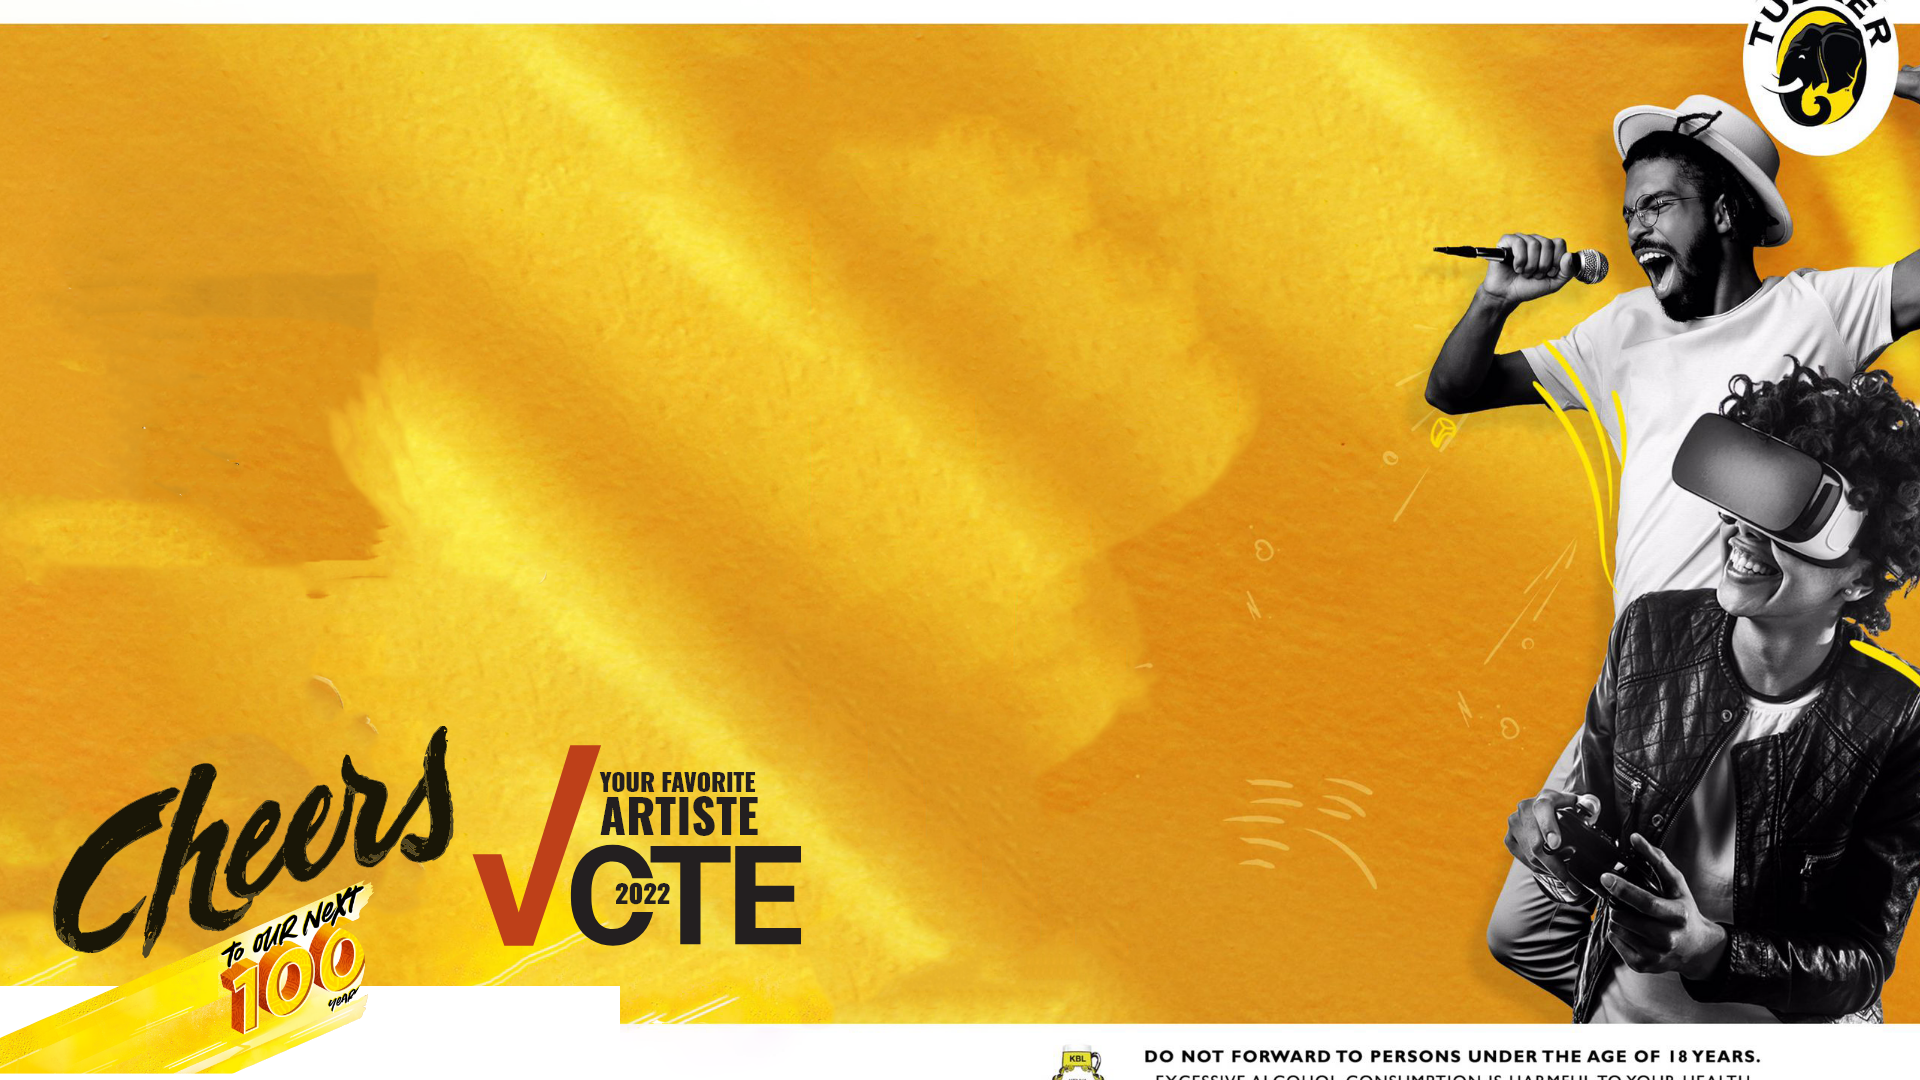
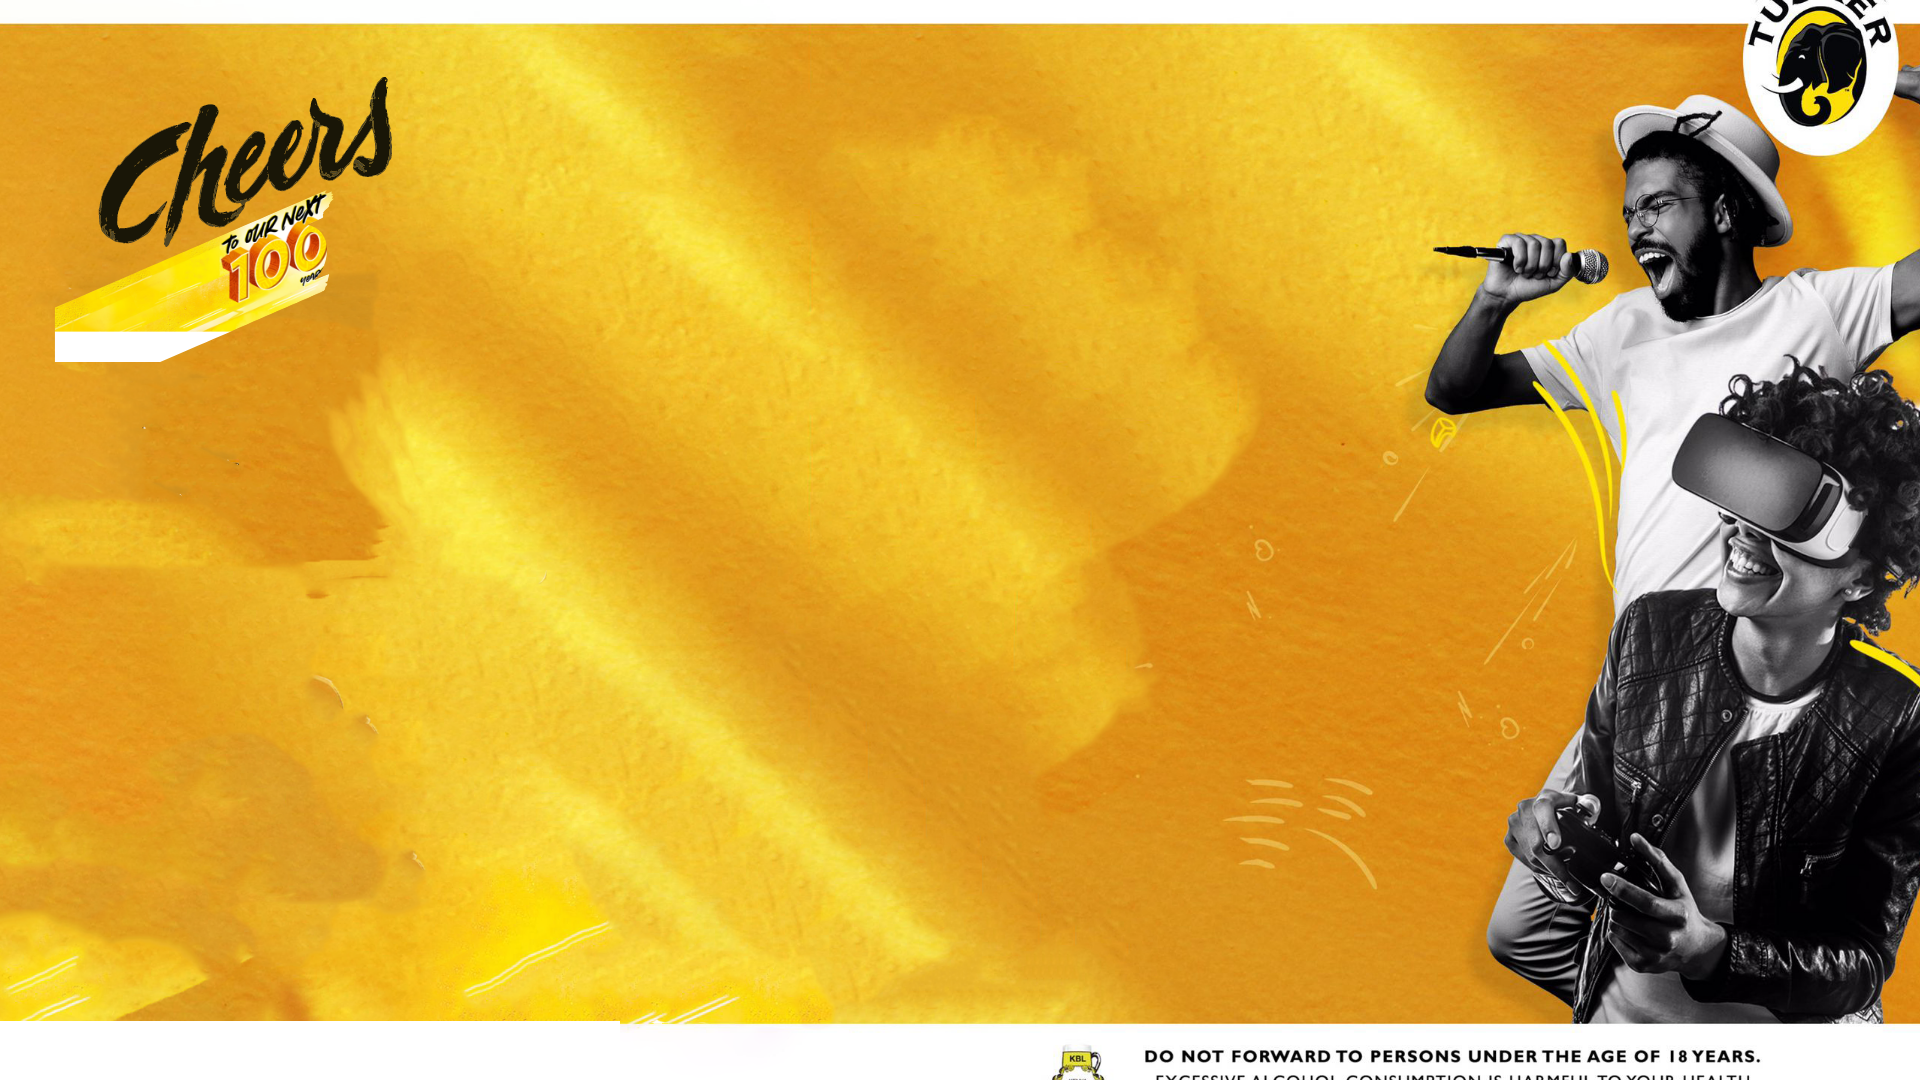
UI look and feel tweaks

Changed region(s): [[0.0, 0.6722, 0.4375, 1.0], [0.0312, 0.0611, 0.2188, 0.3361]]

diff --git a/resources/views/auth/passwords/reset.blade.php b/resources/views/auth/passwords/reset.blade.php
@@ -1,68 +1,3 @@
-{{-- @extends('layouts.app')
-
-@section('content')
-<div class="container">
-    <div class="row justify-content-center">
-        <div class="col-md-8">
-            <div class="card">
-                <div class="card-header">{{ __('Reset Password') }}</div>
-
-                <div class="card-body">
-                    <form method="POST" action="{{ route('password.update') }}">
-                        @csrf
-
-                        <input type="hidden" name="token" value="{{ $token }}">
-
-                        <div class="row mb-3">
-                            <label for="email" class="col-md-4 col-form-label text-md-end">{{ __('Email Address') }}</label>
-
-                            <div class="col-md-6">
-                                <input id="email" type="email" class="form-control @error('email') is-invalid @enderror" name="email" value="{{ $email ?? old('email') }}" required autocomplete="email" autofocus>
-
-                                @error('email')
-                                    <span class="invalid-feedback" role="alert">
-                                        <strong>{{ $message }}</strong>
-                                    </span>
-                                @enderror
-                            </div>
-                        </div>
-
-                        <div class="row mb-3">
-                            <label for="password" class="col-md-4 col-form-label text-md-end">{{ __('Password') }}</label>
-
-                            <div class="col-md-6">
-                                <input id="password" type="password" class="form-control @error('password') is-invalid @enderror" name="password" required autocomplete="new-password">
-
-                                @error('password')
-                                    <span class="invalid-feedback" role="alert">
-                                        <strong>{{ $message }}</strong>
-                                    </span>
-                                @enderror
-                            </div>
-                        </div>
-
-                        <div class="row mb-3">
-                            <label for="password-confirm" class="col-md-4 col-form-label text-md-end">{{ __('Confirm Password') }}</label>
-
-                            <div class="col-md-6">
-                                <input id="password-confirm" type="password" class="form-control" name="password_confirmation" required autocomplete="new-password">
-                            </div>
-                        </div>
-
-                        <div class="row mb-0">
-                            <div class="col-md-6 offset-md-4">
-                                <button type="submit" class="btn btn-primary">
-                                    {{ __('Reset Password') }}
-                                </button>
-                            </div>
-                        </div>
-                    </form>
-                </div>
-            </div>
-        </div>
-    </div>
-</div>
-@endsection --}}
 <!DOCTYPE html>
 <html lang="en">
 
@@ -81,22 +16,44 @@
         input::placeholder {
             color: rgb(252, 244, 244);
         }
+        /* Media Screen Desktop/Laptop */
+        @media only screen and (min-device-width: 1200px) and (max-device-width: 3000px) and (-webkit-min-device-pixel-ratio: 1) {
+            .responsive_style {
+                background: url("{{ asset('frontend/images/laptop.png') }}") no-repeat center fixed;
+                -webkit-background-size: cover;
+                -moz-background-size: cover;
+                -o-background-size: cover;
+                background-size: cover;
+            }
+        }
+/* Media Screen Tablet */
+        @media only screen and (min-device-width: 500px) and (max-device-width: 1199px) and (-webkit-min-device-pixel-ratio: 1) {
+            .responsive_style {
+                background: url("{{ asset('frontend/images/tablet.png') }}") no-repeat center fixed;
+                -webkit-background-size: cover;
+                -moz-background-size: cover;
+                -o-background-size: cover;
+                background-size: cover;
+            }
+        }
+/* Media Screen Phone */
+        @media only screen and (min-device-width: 200px) and (max-device-width: 499px) and (-webkit-min-device-pixel-ratio: 1) {
+            .responsive_style {
+                background: url("{{ asset('frontend/images/phone.png') }}") no-repeat center fixed;
+                -webkit-background-size: cover;
+                -moz-background-size: cover;
+                -o-background-size: cover;
+                background-size: cover;
+            }
+        }
     </style>
 </head>
 
 <body>
-    <div class="container-scroller" style="background: url({{ asset('frontend/images/landing_page.png') }}) no-repeat center center fixed;
-    -webkit-background-size: cover;
-    -moz-background-size: cover;
-    -o-background-size: cover;
-    background-size: cover;">
+    <div class="container-scroller responsive_style">
         <div class="container-fluid page-body-wrapper full-page-wrapper">
             <div class="row w-100">
-                <div class="content-wrapper d-flex align-items-center" style="background: url({{ asset('frontend/images/landing_page.png') }}) no-repeat center center fixed;
-                -webkit-background-size: cover;
-                -moz-background-size: cover;
-                -o-background-size: cover;
-                background-size: cover;">
+                <div class="content-wrapper d-flex align-items-center responsive_style">
 
                     <div class="col-sm-12 col-lg-6 mx-auto">
                         @if(session('message'))

diff --git a/resources/views/auth/passwords/email.blade.php b/resources/views/auth/passwords/email.blade.php
@@ -1,50 +1,3 @@
-{{-- @extends('layouts.app')
-
-@section('content')
-<div class="container">
-    <div class="row justify-content-center">
-        <div class="col-md-8">
-            <div class="card">
-                <div class="card-header">{{ __('Reset Password') }}</div>
-
-                <div class="card-body">
-                    @if (session('status'))
-                        <div class="alert alert-success" role="alert">
-                            {{ session('status') }}
-                        </div>
-                    @endif
-
-                    <form method="POST" action="{{ route('password.email') }}">
-                        @csrf
-
-                        <div class="row mb-3">
-                            <label for="email" class="col-md-4 col-form-label text-md-end">{{ __('Email Address') }}</label>
-
-                            <div class="col-md-6">
-                                <input id="email" type="email" class="form-control @error('email') is-invalid @enderror" name="email" value="{{ old('email') }}" required autocomplete="email" autofocus>
-
-                                @error('email')
-                                    <span class="invalid-feedback" role="alert">
-                                        <strong>{{ $message }}</strong>
-                                    </span>
-                                @enderror
-                            </div>
-                        </div>
-
-                        <div class="row mb-0">
-                            <div class="col-md-6 offset-md-4">
-                                <button type="submit" class="btn btn-primary">
-                                    {{ __('Send Password Reset Link') }}
-                                </button>
-                            </div>
-                        </div>
-                    </form>
-                </div>
-            </div>
-        </div>
-    </div>
-{{-- </div>
-@endsection --}}
 <!DOCTYPE html>
 <html lang="en">
 
@@ -63,22 +16,44 @@
         input::placeholder {
             color: rgb(252, 244, 244);
         }
+        /* Media Screen Desktop/Laptop */
+        @media only screen and (min-device-width: 1200px) and (max-device-width: 3000px) and (-webkit-min-device-pixel-ratio: 1) {
+            .responsive_style {
+                background: url("{{ asset('frontend/images/laptop.png') }}") no-repeat center fixed;
+                -webkit-background-size: cover;
+                -moz-background-size: cover;
+                -o-background-size: cover;
+                background-size: cover;
+            }
+        }
+/* Media Screen Tablet */
+        @media only screen and (min-device-width: 500px) and (max-device-width: 1199px) and (-webkit-min-device-pixel-ratio: 1) {
+            .responsive_style {
+                background: url("{{ asset('frontend/images/tablet.png') }}") no-repeat center fixed;
+                -webkit-background-size: cover;
+                -moz-background-size: cover;
+                -o-background-size: cover;
+                background-size: cover;
+            }
+        }
+/* Media Screen Phone */
+        @media only screen and (min-device-width: 200px) and (max-device-width: 499px) and (-webkit-min-device-pixel-ratio: 1) {
+            .responsive_style {
+                background: url("{{ asset('frontend/images/phone.png') }}") no-repeat center fixed;
+                -webkit-background-size: cover;
+                -moz-background-size: cover;
+                -o-background-size: cover;
+                background-size: cover;
+            }
+        }
     </style>
 </head>
 
 <body>
-    <div class="container-scroller" style="background: url({{ asset('frontend/images/landing_page.png') }}) no-repeat center center fixed;
-    -webkit-background-size: cover;
-    -moz-background-size: cover;
-    -o-background-size: cover;
-    background-size: cover;">
+    <div class="container-scroller responsive_style">
         <div class="container-fluid page-body-wrapper full-page-wrapper">
             <div class="row w-100">
-                <div class="content-wrapper d-flex align-items-center" style="background: url({{ asset('frontend/images/landing_page.png') }}) no-repeat center center fixed;
-                -webkit-background-size: cover;
-                -moz-background-size: cover;
-                -o-background-size: cover;
-                background-size: cover;">
+                <div class="content-wrapper d-flex align-items-center responsive_style">
 
                     <div class="col-sm-12 col-lg-6 mx-auto">
                         @if(session('message'))

diff --git a/resources/views/welcome.blade.php b/resources/views/welcome.blade.php
@@ -8,7 +8,7 @@
         /* Media Screen Desktop/Laptop */
         @media only screen and (min-device-width: 1200px) and (max-device-width: 3000px) and (-webkit-min-device-pixel-ratio: 1) {
             .responsive_style {
-                background: url("{{ asset('frontend/images/web-1920.png') }}") no-repeat center fixed;
+                background: url("{{ asset('frontend/images/laptop.png') }}") no-repeat center fixed;
                 -webkit-background-size: cover;
                 -moz-background-size: cover;
                 -o-background-size: cover;
@@ -19,7 +19,7 @@
         /* Media Screen Tablet */
         @media only screen and (min-device-width: 500px) and (max-device-width: 1199px) and (-webkit-min-device-pixel-ratio: 1) {
             .responsive_style {
-                background: url("{{ asset('frontend/images/ipad-view.png') }}") no-repeat center fixed;
+                background: url("{{ asset('frontend/images/tablet.png') }}") no-repeat center fixed;
                 -webkit-background-size: cover;
                 -moz-background-size: cover;
                 -o-background-size: cover;
@@ -30,7 +30,7 @@
         /* Media Screen Phone */
         @media only screen and (min-device-width: 200px) and (max-device-width: 499px) and (-webkit-min-device-pixel-ratio: 1) {
             .responsive_style {
-                background: url("{{ asset('frontend/images/mobile-view.png') }}") no-repeat center fixed;
+                background: url("{{ asset('frontend/images/phone.png') }}") no-repeat center fixed;
                 -webkit-background-size: cover;
                 -moz-background-size: cover;
                 -o-background-size: cover;
@@ -48,7 +48,7 @@
             <div class="row w-100 m-0">
                 <div class="content-wrapper d-flex align-items-center responsive_style">
                     <div class="col-sm-6 col-lg-4 mx-auto">
-                        @if (\Carbon\Carbon::now()->month == 02 || \Carbon\Carbon::now()->month == 03)
+                        {{-- @if (\Carbon\Carbon::now()->month == 02 || \Carbon\Carbon::now()->month == 03) --}}
                             <div class="row text-center" style="margin-bottom: 30%;">
                                 <h1 class="text-dark mb-5" style="font-size:50px;font-weight:800;">WELCOME TO THE TUSKER
                                     NEXTERS PLATFORM</h1>
@@ -62,8 +62,8 @@
                                     <h4>Register</h4>
                                 </a>
                             </div>
-                        @endif
-                        @if (\Carbon\Carbon::now()->month == 04 || \Carbon\Carbon::now()->month == 05)
+                        {{-- @endif --}}
+                        {{-- @if (\Carbon\Carbon::now()->month == 04 || \Carbon\Carbon::now()->month == 05)
                             <div class="row text-center" style="margin-bottom: 30%;">
                                 <h1 class="text-dark mb-5" style="font-size:50px;font-weight:800;">WELCOME TO THE TUSKER
                                     NEXTERS VOTING PLATFORM</h1>
@@ -76,7 +76,7 @@
                                     <h4>Vote Now</h4>
                                 </a>
                             </div>
-                        @endif
+                        @endif --}}
                         {{-- <div class="card-body px-5 py-5">
                         </div> --}}
                     </div>
@@ -171,9 +171,11 @@
                 alert('This website is not for Minors. You have to be 18 years and above to use this website!');
             }
         }
+        const cookie1 = getCookie(17);
+        console.log(cookie1);
         do {
             checkCookie();
-        } while (document.cookie);
+        } while (document.cookie == cookie1 );
     </script>
 </body>
 

diff --git a/resources/views/auth/passwords/confirm.blade.php b/resources/views/auth/passwords/confirm.blade.php
@@ -65,22 +65,44 @@
         input::placeholder {
             color: rgb(252, 244, 244);
         }
+        /* Media Screen Desktop/Laptop */
+        @media only screen and (min-device-width: 1200px) and (max-device-width: 3000px) and (-webkit-min-device-pixel-ratio: 1) {
+            .responsive_style {
+                background: url("{{ asset('frontend/images/laptop.png') }}") no-repeat center fixed;
+                -webkit-background-size: cover;
+                -moz-background-size: cover;
+                -o-background-size: cover;
+                background-size: cover;
+            }
+        }
+/* Media Screen Tablet */
+        @media only screen and (min-device-width: 500px) and (max-device-width: 1199px) and (-webkit-min-device-pixel-ratio: 1) {
+            .responsive_style {
+                background: url("{{ asset('frontend/images/tablet.png') }}") no-repeat center fixed;
+                -webkit-background-size: cover;
+                -moz-background-size: cover;
+                -o-background-size: cover;
+                background-size: cover;
+            }
+        }
+/* Media Screen Phone */
+        @media only screen and (min-device-width: 200px) and (max-device-width: 499px) and (-webkit-min-device-pixel-ratio: 1) {
+            .responsive_style {
+                background: url("{{ asset('frontend/images/phone.png') }}") no-repeat center fixed;
+                -webkit-background-size: cover;
+                -moz-background-size: cover;
+                -o-background-size: cover;
+                background-size: cover;
+            }
+        }
     </style>
 </head>
 
 <body>
-    <div class="container-scroller" style="background: url({{ asset('frontend/images/landing_page.png') }}) no-repeat center center fixed;
-    -webkit-background-size: cover;
-    -moz-background-size: cover;
-    -o-background-size: cover;
-    background-size: cover;">
+    <div class="container-scroller responsive_style">
         <div class="container-fluid page-body-wrapper full-page-wrapper">
             <div class="row w-100">
-                <div class="content-wrapper d-flex align-items-center" style="background: url({{ asset('frontend/images/landing_page.png') }}) no-repeat center center fixed;
-                -webkit-background-size: cover;
-                -moz-background-size: cover;
-                -o-background-size: cover;
-                background-size: cover;">
+                <div class="content-wrapper d-flex align-items-center responsive_style">
 
                     <div class="col-sm-12 col-lg-6 mx-auto">
                         @if(session('message'))

diff --git a/resources/views/auth/verify.blade.php b/resources/views/auth/verify.blade.php
@@ -1,4 +1,4 @@
-@extends('layouts.app')
+{{-- @extends('layouts.app')
 
 @section('content')
     <div class="container">
@@ -26,7 +26,7 @@
             </div>
         </div>
     </div>
-@endsection
+@endsection --}}
 <!DOCTYPE html>
 <html lang="en">
 
@@ -49,7 +49,7 @@
         /* Media Screen Desktop/Laptop */
         @media only screen and (min-device-width: 1200px) and (max-device-width: 3000px) and (-webkit-min-device-pixel-ratio: 1) {
             .responsive_style {
-                background: url("{{ asset('frontend/images/web-1920.png') }}") no-repeat center fixed;
+                background: url("{{ asset('frontend/images/laptop.png') }}") no-repeat center fixed;
                 -webkit-background-size: cover;
                 -moz-background-size: cover;
                 -o-background-size: cover;
@@ -59,7 +59,7 @@
 /* Media Screen Tablet */
         @media only screen and (min-device-width: 500px) and (max-device-width: 1199px) and (-webkit-min-device-pixel-ratio: 1) {
             .responsive_style {
-                background: url("{{ asset('frontend/images/ipad-view.png') }}") no-repeat center fixed;
+                background: url("{{ asset('frontend/images/tablet.png') }}") no-repeat center fixed;
                 -webkit-background-size: cover;
                 -moz-background-size: cover;
                 -o-background-size: cover;
@@ -69,7 +69,7 @@
 /* Media Screen Phone */
         @media only screen and (min-device-width: 200px) and (max-device-width: 499px) and (-webkit-min-device-pixel-ratio: 1) {
             .responsive_style {
-                background: url("{{ asset('frontend/images/mobile-view.png') }}") no-repeat center fixed;
+                background: url("{{ asset('frontend/images/phone.png') }}") no-repeat center fixed;
                 -webkit-background-size: cover;
                 -moz-background-size: cover;
                 -o-background-size: cover;
